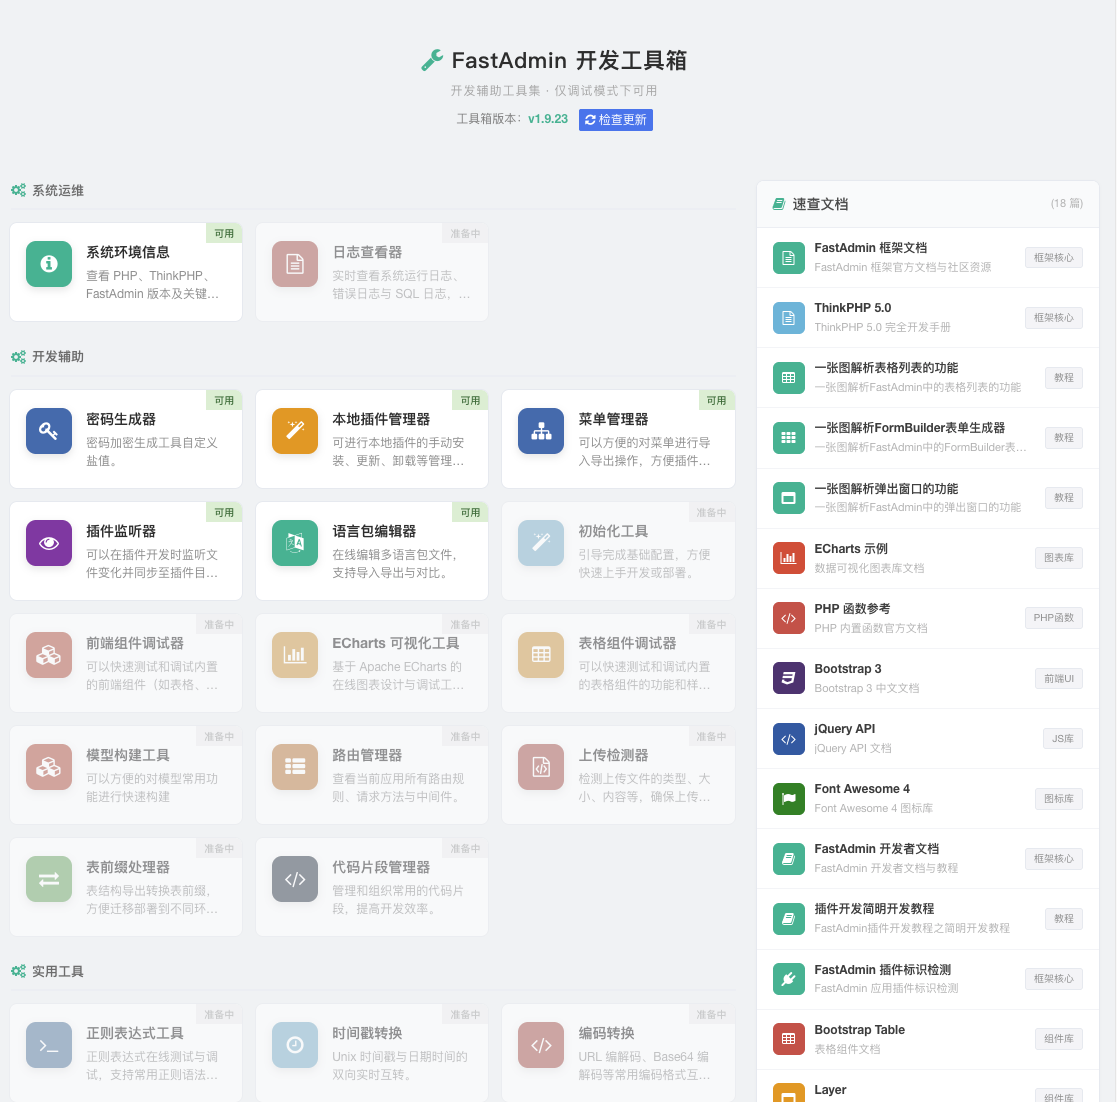
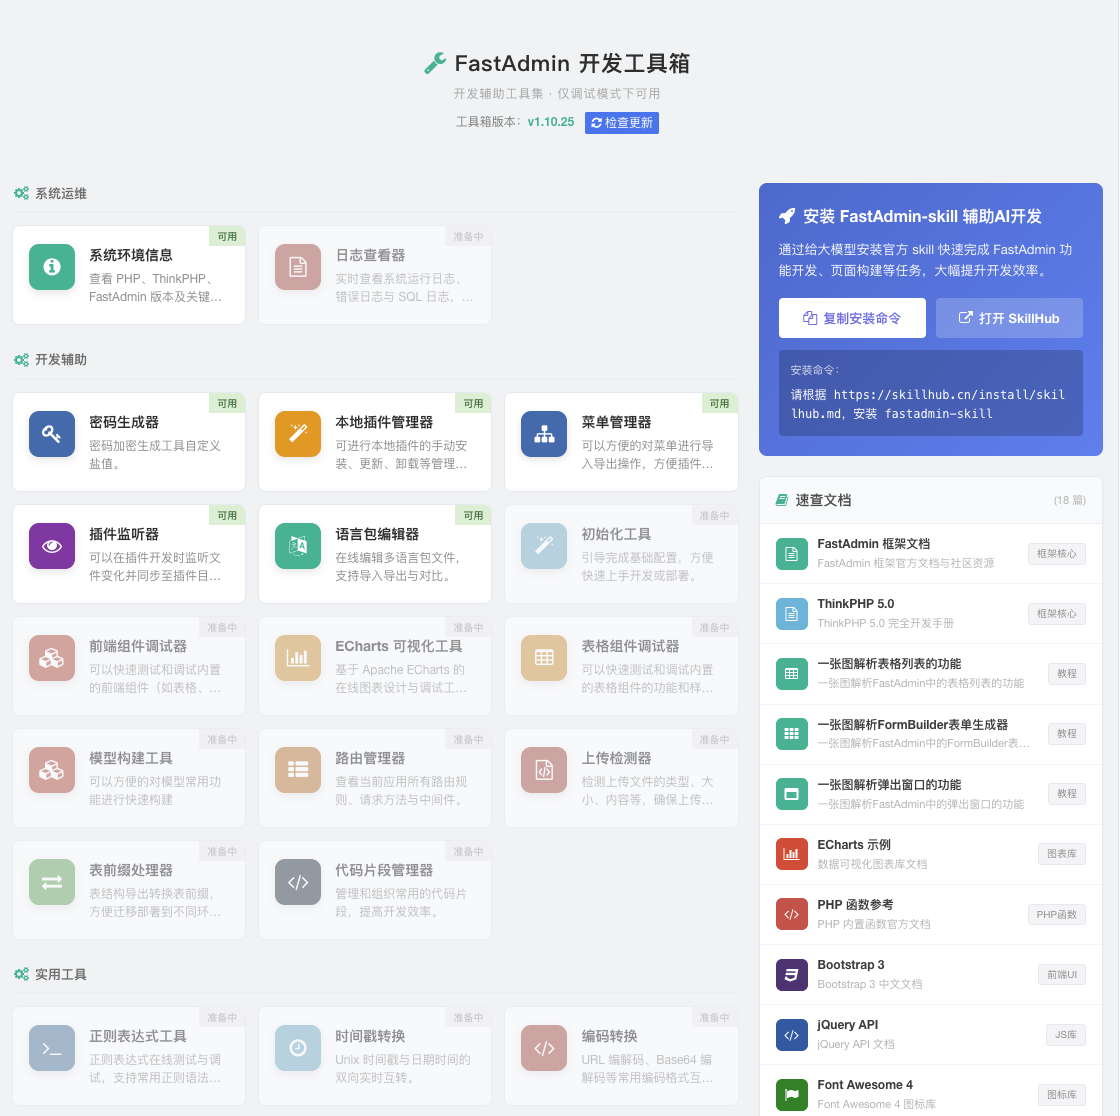
增加官方 AI skill 安装命令快捷获取渠道

diff --git a/Toolbox.php b/Toolbox.php
@@ -19,7 +19,7 @@ use think\Db;
  */
 class Toolbox extends Backend
 {
-    protected $version = '1.9.25';
+    protected $version = '1.10.25';
 
     protected $noNeedLogin = [];
     protected $noNeedRight = ['*'];
@@ -665,6 +665,21 @@ class Toolbox extends Backend
             .doc-item-tag { flex-shrink:0; display:inline-block; padding:2px 8px; background:#f5f6f8; border:1px solid #e8ecf1; border-radius:3px; font-size:10px; color:#999; white-space:nowrap; transition:all 0.2s; }
             .doc-item:hover .doc-item-tag { background:#18bc9c; border-color:#18bc9c; color:#fff; }
 
+            /* Skill 提示区块 */
+            .tb-skill-hint { background:linear-gradient(135deg, #3A7BD5 0%, #4991F2 100%); border-radius:8px; padding:20px; margin-bottom:20px; color:#fff; }
+            .tb-skill-hint-title { font-size:16px; font-weight:600; margin-bottom:12px; display:flex; align-items:center; }
+            .tb-skill-hint-title i { margin-right:8px; font-size:18px; }
+            .tb-skill-hint-desc { font-size:13px; opacity:0.95; margin-bottom:16px; line-height:1.6; }
+            .tb-skill-hint-actions { display:flex; gap:10px; flex-wrap:wrap; }
+            .tb-skill-hint-btn { flex:1; min-width:140px; padding:10px 16px; border:none; border-radius:4px; font-size:13px; font-weight:600; cursor:pointer; transition:all 0.2s ease; display:flex; align-items:center; justify-content:center; gap:6px; }
+            .tb-skill-hint-btn-primary { background:#fff; color:#667eea; }
+            .tb-skill-hint-btn-primary:hover { background:#f0f0f0; transform:translateY(-1px); }
+            .tb-skill-hint-btn-secondary { background:rgba(255,255,255,0.2); color:#fff; }
+            .tb-skill-hint-btn-secondary:hover { background:rgba(255,255,255,0.3); transform:translateY(-1px); }
+            .tb-skill-hint-btn i { font-size:14px; }
+            .tb-skill-hint-prompt-box { background:rgba(0,0,0,0.2); border-radius:4px; padding:12px; margin-top:12px; font-family:monospace; font-size:12px; line-height:1.6; word-break:break-all; max-height:120px; overflow-y:auto; }
+            .tb-skill-hint-prompt-label { font-size:11px; opacity:0.8; margin-bottom:6px; display:block; }
+
             /* 响应式 */
             @media (max-width:992px) {
                 .tb-main-row { flex-direction:column; }
@@ -673,6 +688,8 @@ class Toolbox extends Backend
             }
             @media (max-width:600px) {
                 .tool-card { width:100%; }
+                .tb-skill-hint-actions { flex-direction:column; }
+                .tb-skill-hint-btn { width:100%; }
             }
             </style>
 
@@ -692,6 +709,29 @@ class Toolbox extends Backend
                     {$toolHtml}
                 </div>
                 <div class="tb-docs-col">
+                    <div class="tb-skill-hint">
+                        <div class="tb-skill-hint-title">
+                            <i class="fa fa-rocket"></i>
+                            <span>安装 FastAdmin-skill 辅助AI开发</span>
+                        </div>
+                        <div class="tb-skill-hint-desc">
+                            通过给大模型安装官方 skill 快速完成 FastAdmin 功能开发、页面构建等任务，大幅提升开发效率。
+                        </div>
+                        <div class="tb-skill-hint-actions">
+                            <button class="tb-skill-hint-btn tb-skill-hint-btn-primary" id="btn-copy-skill-prompt">
+                                <i class="fa fa-copy"></i>
+                                复制安装命令
+                            </button>
+                            <button class="tb-skill-hint-btn tb-skill-hint-btn-secondary" id="btn-open-skillhub">
+                                <i class="fa fa-external-link"></i>
+                                打开 SkillHub
+                            </button>
+                        </div>
+                        <div class="tb-skill-hint-prompt-box">
+                            <span class="tb-skill-hint-prompt-label">安装命令：</span>
+                            <span id="skill-install-cmd">请根据 https://skillhub.cn/install/skillhub.md，安装 fastadmin-skill</span>
+                        </div>
+                    </div>
                     <div class="tb-docs-section" id="tb-docs-section">
                         <div class="tb-docs-title"><i class="fa fa-book"></i> 速查文档 <span class="tb-doc-page-info" id="tb-doc-page-info" style="margin-left:auto;font-size:11px;font-weight:400;color:#bbb;"></span></div>
                         <div id="tb-doc-list">{$docCards}</div>
@@ -755,6 +795,47 @@ class Toolbox extends Backend
                 });
 
                 renderPage(1);
+
+                /* ====== Skill 安装提示 ====== */
+                $("#btn-copy-skill-prompt").on("click", function() {
+                    var promptText = $("#skill-install-cmd").text();
+                    var $btn = $(this);
+
+                    // 使用兼容性更好的复制方法
+                    function copyToClipboard(text) {
+                        var textarea = document.createElement("textarea");
+                        textarea.value = text;
+                        textarea.style.position = "fixed";
+                        textarea.style.opacity = "0";
+                        document.body.appendChild(textarea);
+                        textarea.select();
+                        try {
+                            var ok = document.execCommand("copy");
+                            if (ok) {
+                                return true;
+                            } else {
+                                return false;
+                            }
+                        } catch (err) {
+                            return false;
+                        } finally {
+                            document.body.removeChild(textarea);
+                        }
+                    }
+
+                    if (copyToClipboard(promptText)) {
+                        $btn.html("<i class=\"fa fa-check\"></i> 已复制");
+                        setTimeout(function() {
+                            $btn.html("<i class=\"fa fa-copy\"></i> 复制安装命令");
+                        }, 2000);
+                    } else {
+                        Layer.msg("复制失败，请手动复制", {icon: 2});
+                    }
+                });
+
+                $("#btn-open-skillhub").on("click", function() {
+                    window.open("https://skillhub.cn/skills/user_70589ad6/fastadmin-skill", "_blank");
+                });
 
                 /* ====== 工具箱自更新 ====== */
                 $(".btn-check-toolbox-update").on("click", function() {

diff --git a/README.md b/README.md
@@ -19,6 +19,7 @@
 | **菜单代码管理器** | 支持菜单配置与代码的双向导入导出，快速创建或备份菜单配置 |
 | **插件开发监听器安装器** | 检测并安装插件开发文件同步监视工具，安装后可通过命令行执行生产目录和插件目录的文件监听同步功能 |
 | **语言包编辑器** | 可以方便的加载语言文件并对其进行翻译（基于腾讯翻译实现），支持导出语言文件代码 |
+| **官方skill快捷安装** | 提供一键安装官方 skill 插件的功能，简化插件安装流程 |
 
 ## 使用说明
 
